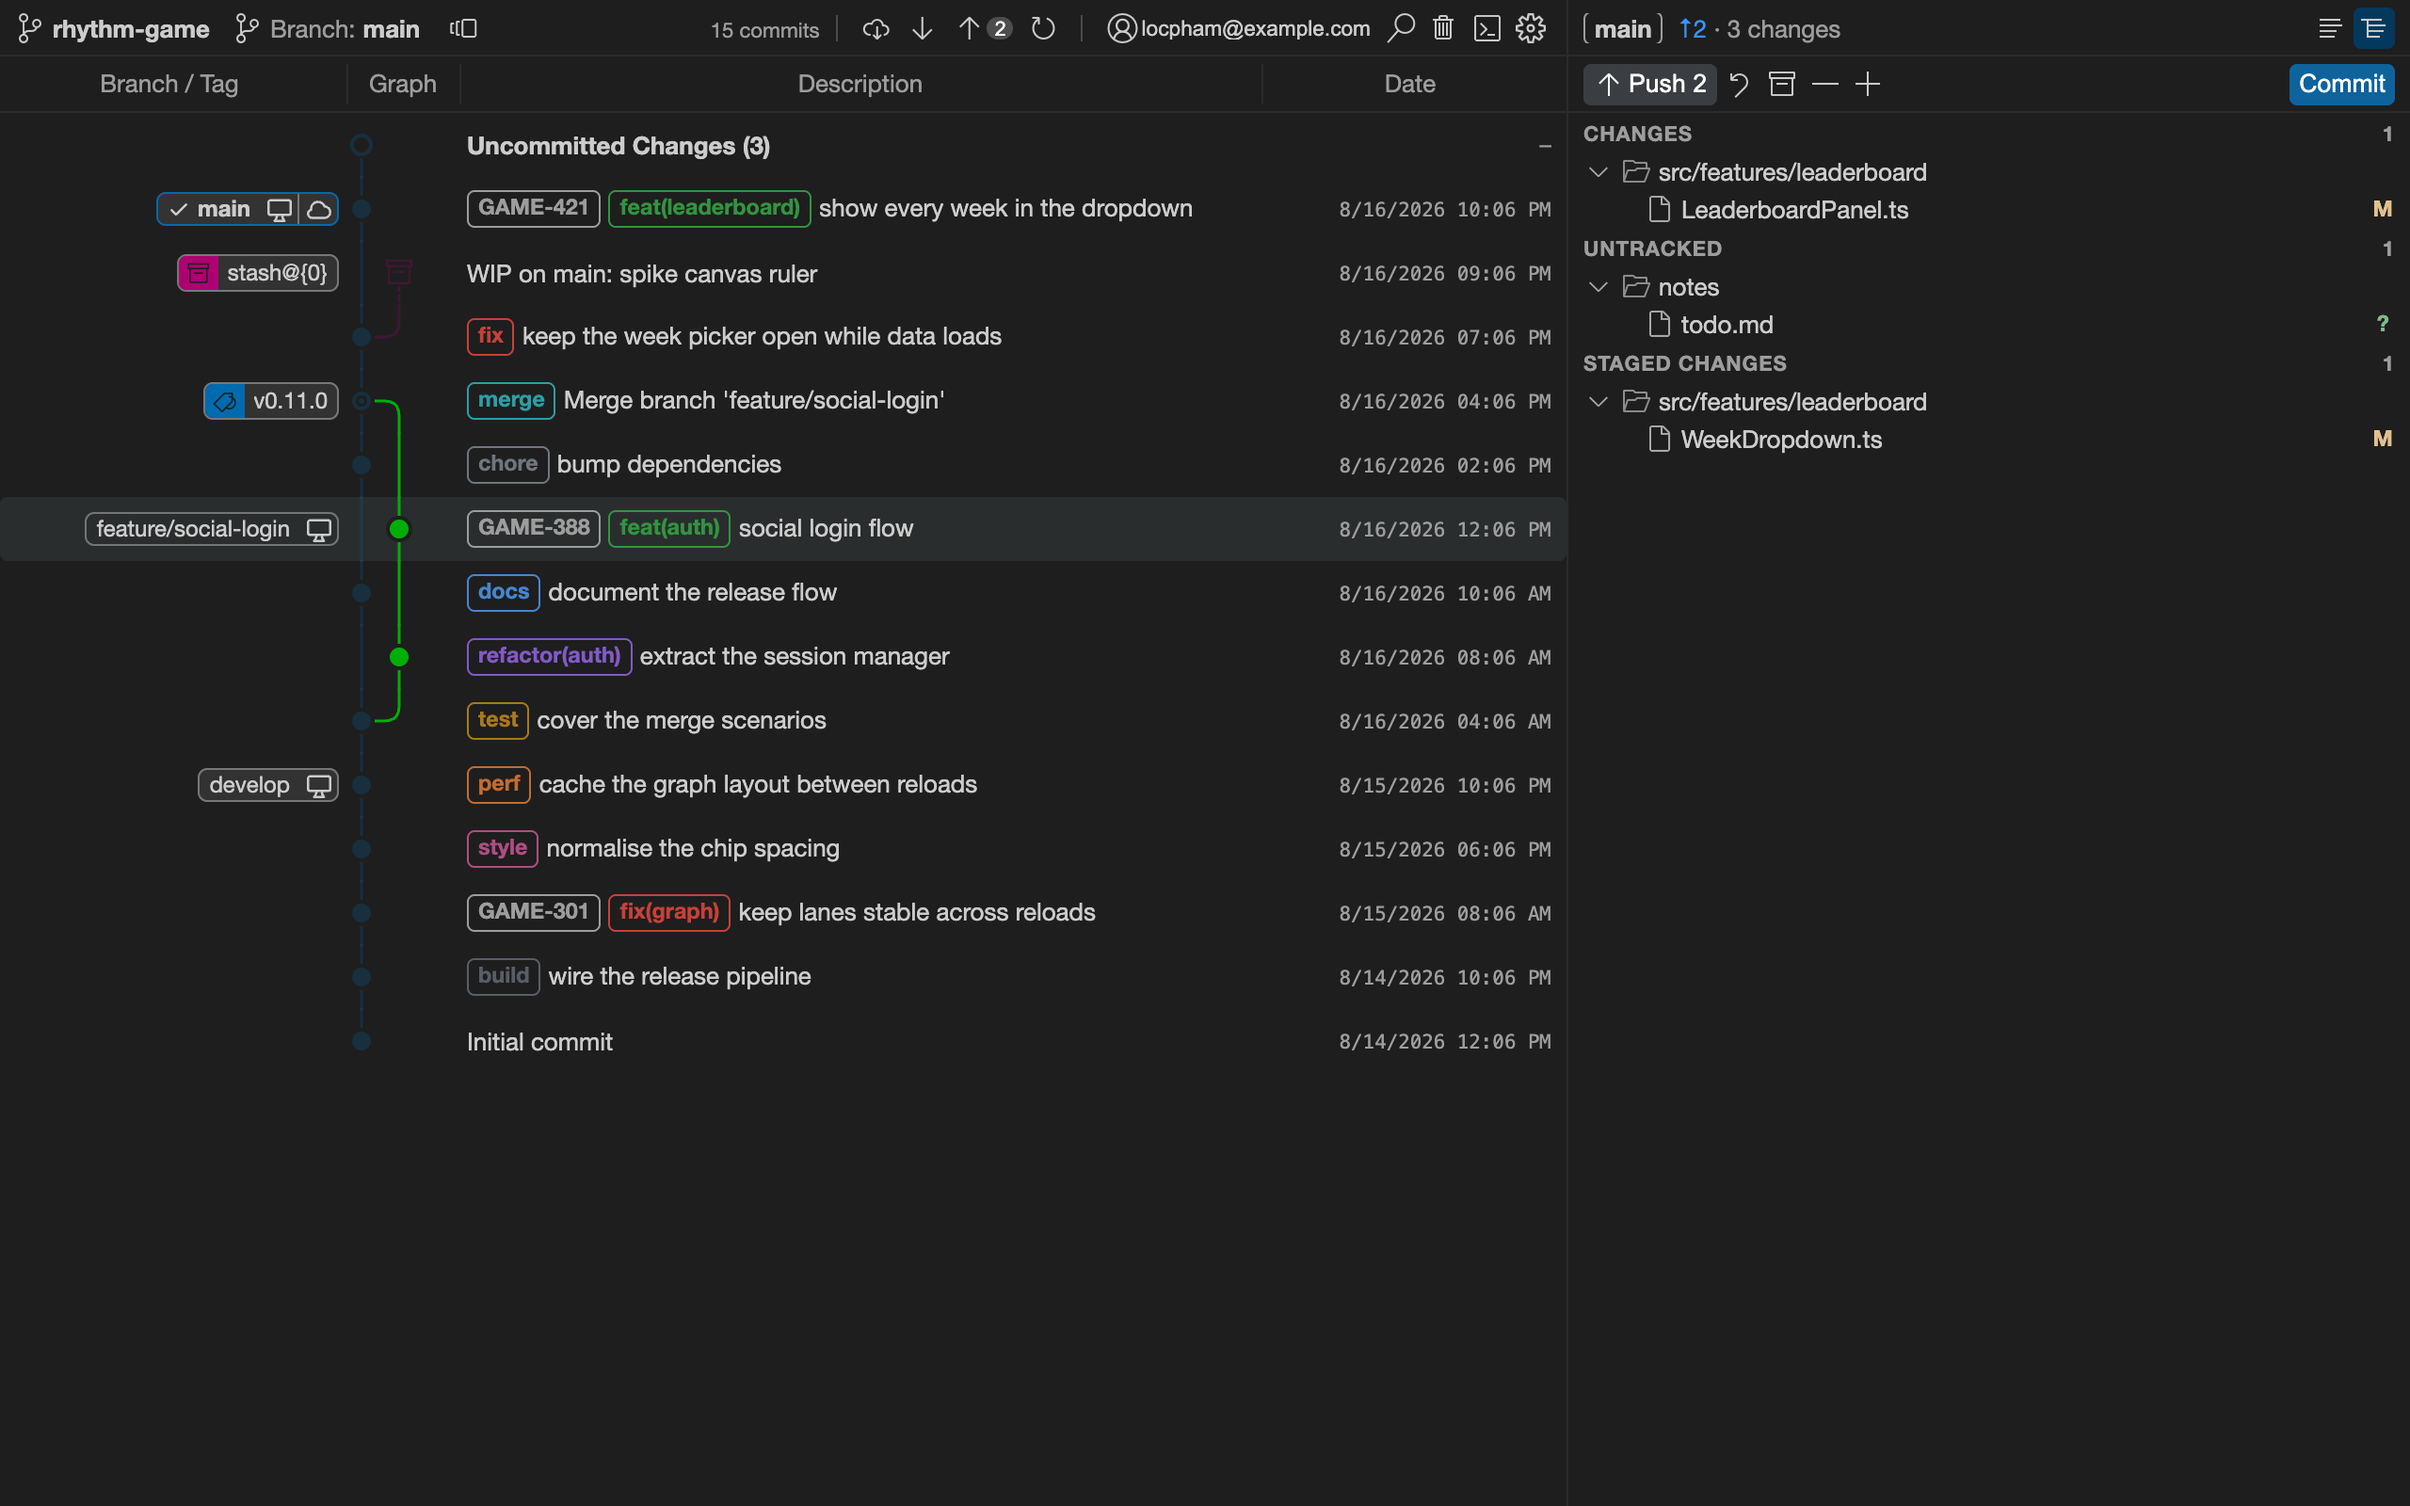
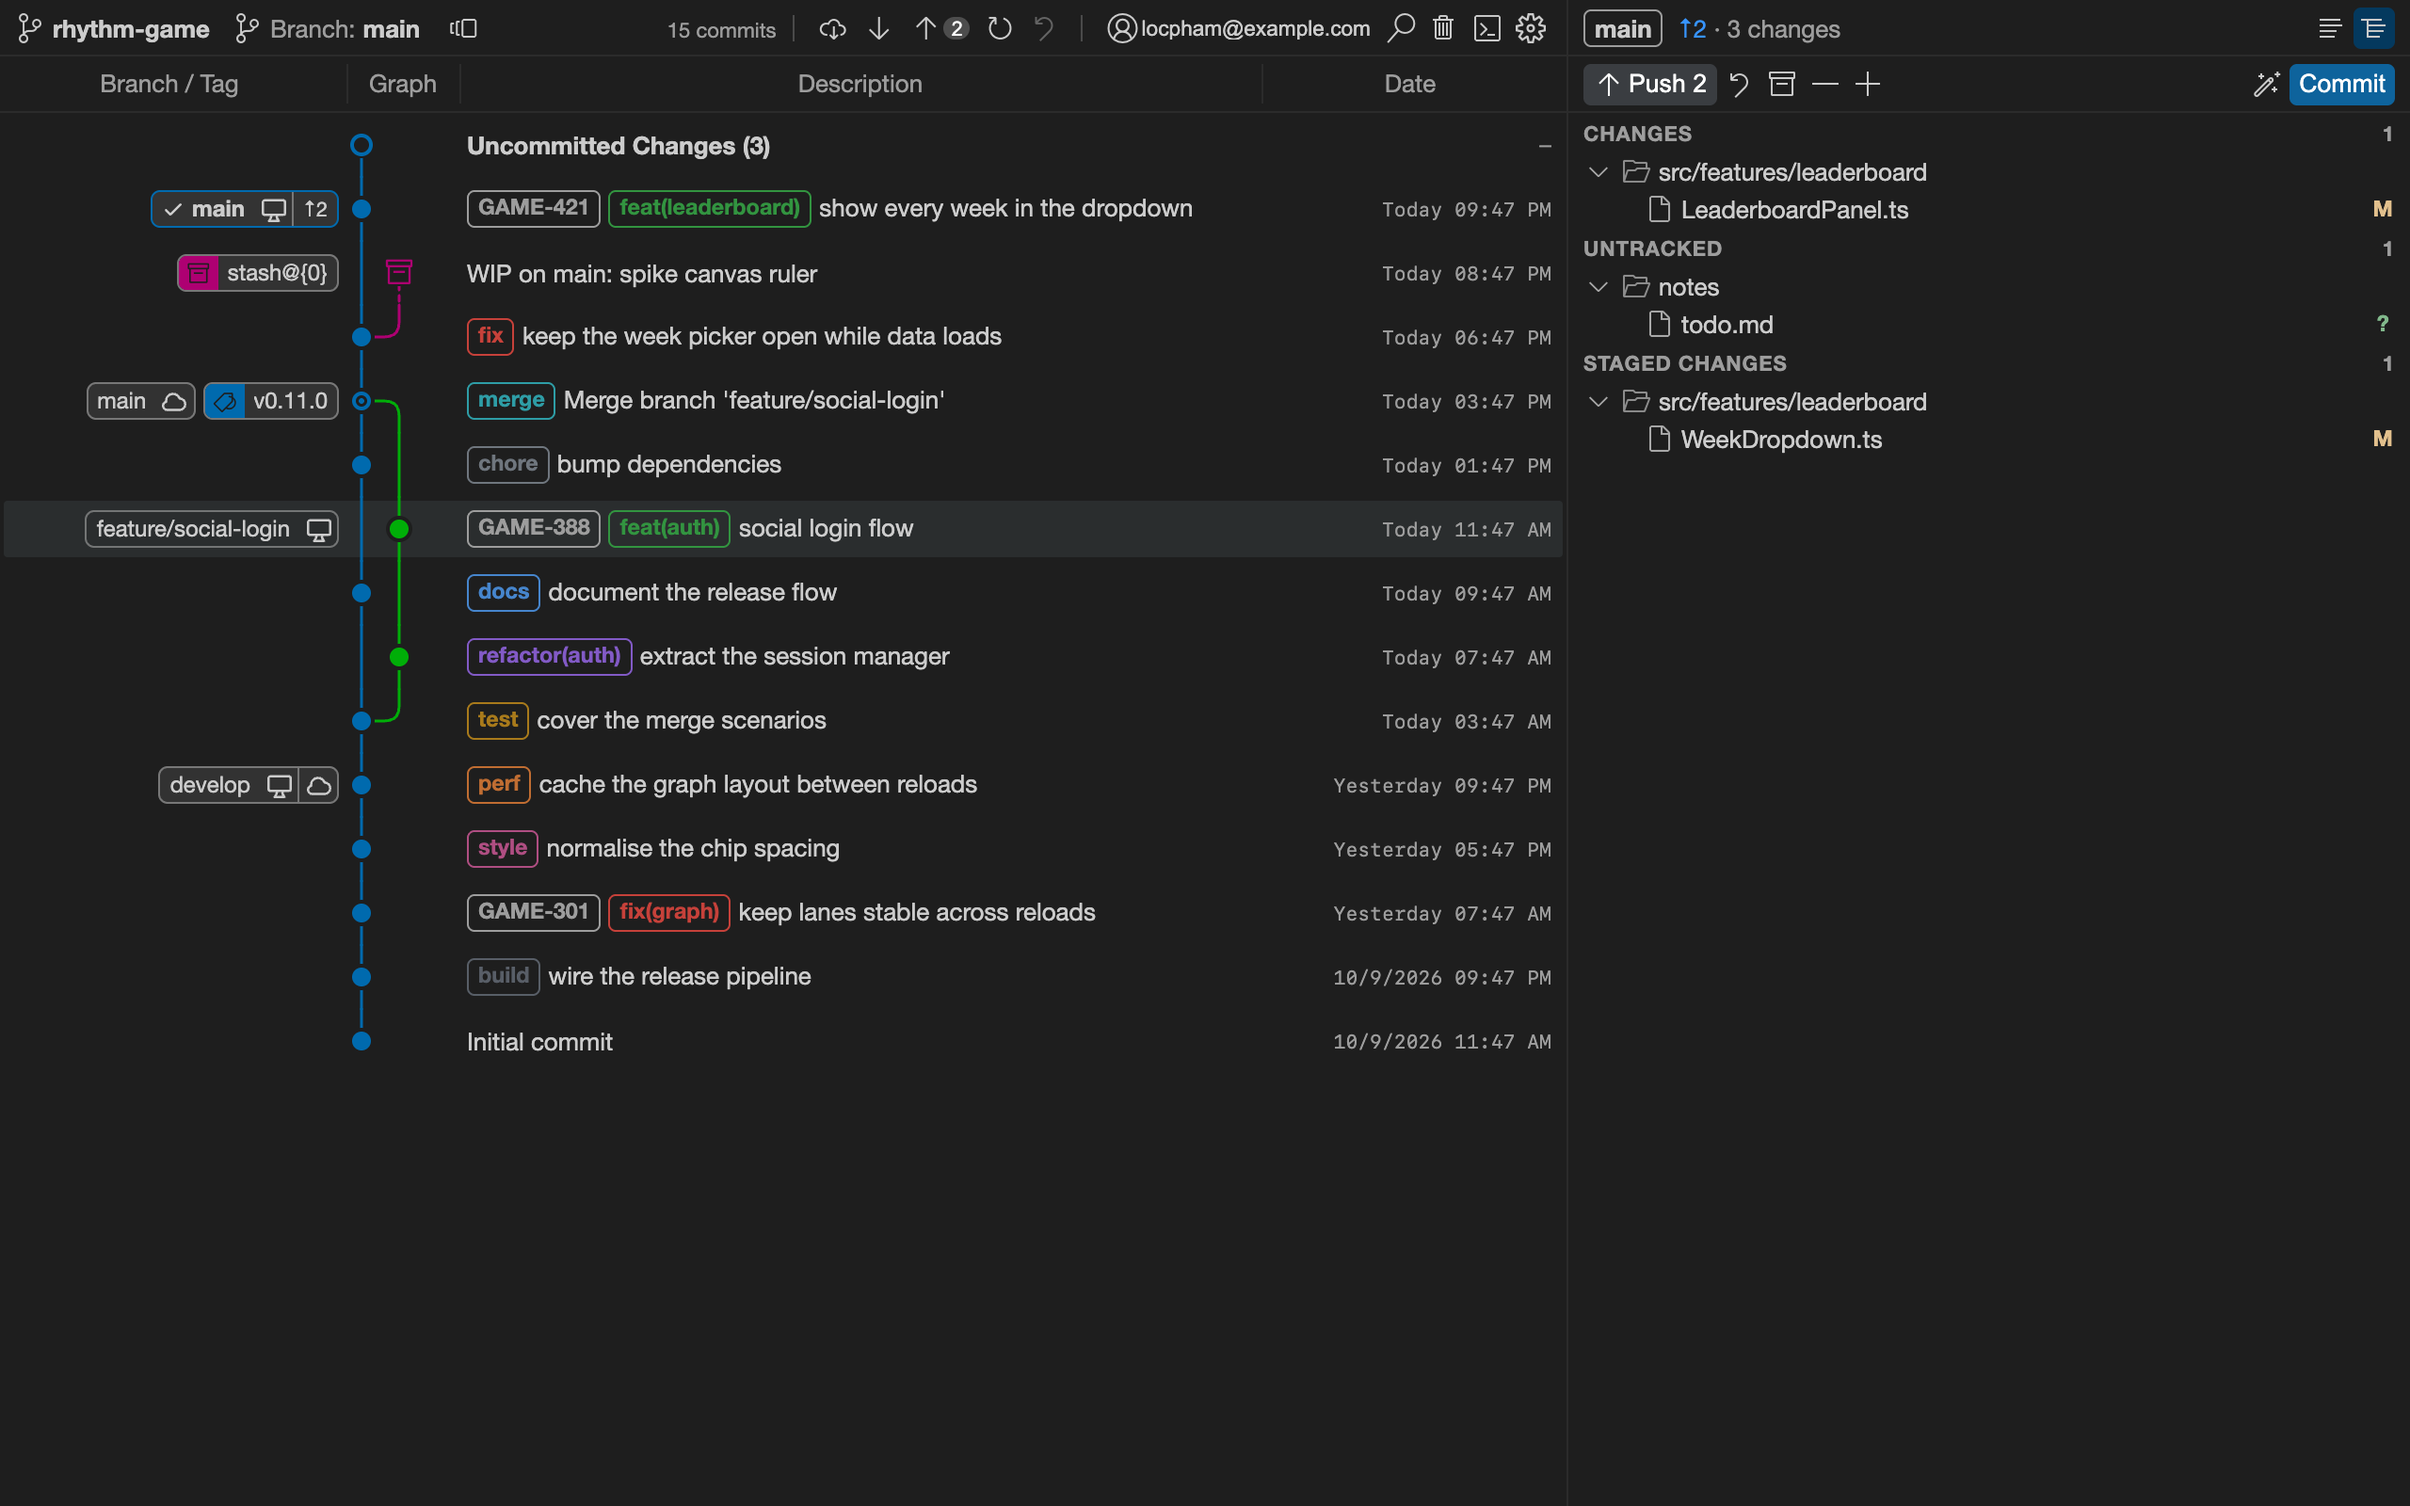
docs: retake the screenshots on the current UI and catch the feature list up
All eight screenshots are retaken on the current build, plus two new ones: a
merge commit listing what it brought in, and the AI commit plan editor.

The feature list gains upstream drift and auto-fetch, Show Only, merge commit
files, sideways-scrolling diffs, rename / annotated tags / force delete, undo,
the checkout reconcile prompts, the pull strategy, the editor tab, and how the
extension shares the index lock with other tools. Privacy now names auto-fetch
and AI commit as the two things that reach past the machine.

diff --git a/packages/extension/README.md b/packages/extension/README.md
@@ -15,40 +15,69 @@ View a Git graph of your repository and perform Git actions from it, inside Visu
   types (`feat`, `fix`, `chore`, …) render as chips, and hovering a row or branch chip highlights
   that branch's whole line. Rest on an avatar to see who wrote the commit. A long-lived branch
   keeps its own lane through fork points instead of drifting left.
+- **Upstream drift on every branch**: a local branch's chip shows how far it is ahead of or behind
+  the branch it tracks, and **auto-fetch** (every minute by default; 5, 15, 30 or 60 minutes, or
+  off) keeps those counts true. It pauses while the window is in the background and gives up after
+  repeated failures rather than asking for a password again and again.
+- **Show only one branch**: pick **Show Only** on a branch chip to draw that branch alone; a pill
+  in the control bar clears the filter.
 - **Commit details**: message, author and committer, parents, and the changed files as a flat list or
-  a folder tree — with the file icons from whichever icon theme you already use.
+  a folder tree — with the file icons from whichever icon theme you already use. A merge commit
+  lists what it brought in: its files against the branch it was merged into.
 - **Working tree**: stage, unstage and discard per file, stage or unstage everything, stash, commit,
   and undo the last commit.
 - **Diffs in the view**: any file's changes open in an inline panel with syntax highlighting and an
   overview ruler of every change — or Ctrl/Cmd + click a second commit to compare two commits.
-  ↑/↓ step through the commit's files while a diff is open; Alt + ↑/↓ still move between commits.
-- **Git actions**: checkout, branch, merge, rebase, cherry-pick, revert, reset, tag, and the stash
-  actions, from the commit's context menu; drag one branch chip onto another to merge, rebase or
-  fast-forward; fetch, pull, push and force-push ask before running. Merge options, squash and
-  reword messages and the confirmations are asked in the view's own dialogs, with a real
-  multi-line editor for commit messages.
+  Long lines scroll sideways while the line numbers stay put. ↑/↓ step through the commit's files
+  while a diff is open; Alt + ↑/↓ still move between commits.
+- **Git actions**: checkout, branch, rename, merge, rebase, cherry-pick, revert, reset, lightweight
+  and annotated tags, and the stash actions, from the commit's context menu; drag one branch chip
+  onto another to merge, rebase or fast-forward; push a branch without checking it out; fetch,
+  pull, push and force-push ask before running. Deleting an unmerged branch offers a force delete
+  instead of failing. Merge options, squash and reword messages and the confirmations are asked in
+  the view's own dialogs, with a real multi-line editor for commit messages.
+- **Undo**: the last graph action that moved a branch or HEAD — a merge, rebase, reset,
+  cherry-pick, squash or branch change — is undone with the Undo button in the control bar.
+  Everything is checked again before the undo runs, and a dirty working tree is refused rather
+  than overwritten.
 - **Refs where you clicked them**: right-click a branch, remote branch or tag chip and the menu
   belongs to that ref, named in the label — no second question about which ref you meant. Hover the
   ref column and it unfolds, every ref on the row at full length, still draggable and still
   right-clickable.
-- **Checkout that keeps up**: checking a branch out from its remote finds the local branch even
-  when it has fallen behind, and brings it up to date in the same step — never over uncommitted
-  work, and switchable off. A detached HEAD is marked in the graph, with one click back to the
-  branch you left.
+- **Checkout that keeps up**: every way of checking a branch out — double-click, the menu, or its
+  remote chip — finds the local branch even when it has fallen behind, and brings it up to date in
+  the same step, never over uncommitted work and switchable off. Checked out from its remote chip,
+  a branch that has diverged is checked out first and then you choose: merge, rebase, or reset
+  onto the remote; one that is only ahead offers to push it up or reset it back, and says whether
+  the commits a reset drops still live on another branch. A detached HEAD is marked in the graph,
+  with one click back to the branch you left.
+- **Pull strategy**: the Pull button follows your git config by default, or uses fast-forward if
+  possible, fast-forward only, or rebase — so a repository set to write a merge commit on every
+  pull can still be pulled clean. The pull menu offers each one for a single pull.
 - **Remotes that ask for credentials** work without a terminal: git's prompt is answered through
   VS Code, and nothing secret reaches a log or notification.
-- **AI commit**, opt-in: the wand beside Commit hands your changes to an agent CLI you already have
-  installed and logged in — Claude Code, Codex, Gemini, Copilot, OpenCode or Qwen Code — and it
-  writes the message, or a split into several commits you can edit, regroup and approve before
-  anything is written. No API key is stored; generated assets, binaries and any glob you exclude
-  are sent by name only.
+- **AI commit**, opt-in: the wand beside Commit hands your staged changes to an agent CLI you
+  already have installed and logged in — Claude Code, Codex, Gemini, Copilot, OpenCode or Qwen Code —
+  and it writes the message, or a split into several commits you can edit, regroup and approve
+  before anything is written. Each step of the run is shown while it works. No API key is stored;
+  generated assets, binaries and any glob you exclude are sent by name only, and the agent runs in
+  a folder of its own, never inside your repository.
 - **Branch cleanup**: scan local branches by age, see which are merged or have lost their remote,
   and delete a batch in one pass — every result comes back with the hash to undo it.
 - **Git identities per repository**: keep an identity per client, each with one or more remote
   patterns, and apply it to a repository without touching your global config — optionally applied
   on its own when a repository's remote matches exactly one of them.
-- **Find** with Ctrl+F, several repositories in one workspace, and a view you can open as an editor
-  tab.
+- **In the Panel or an editor tab**: the graph opens in the bottom Panel or as an editor tab you
+  can split, drag to another group or move into its own window. The octopus button on the editor
+  title bar opens it, **Move to Editor Tab** / **Move to Panel** swap between the two, and the
+  **Default location** setting decides where **Open Git Octopus** goes. An open tab is brought
+  forward rather than opening a second graph.
+- **Gets along with other Git tools**: every git command runs in turn, a write that meets a lock
+  another tool holds for a moment waits it out, and reading the working tree never takes the
+  index lock — so a commit made in a terminal or another client is not refused because the graph
+  was refreshing. A lock file left behind by an interrupted command is reported as exactly that,
+  with an offer to remove it.
+- **Find** with Ctrl+F, and several repositories in one workspace.
 
 ## Managing multiple Git identities
 
@@ -84,17 +113,25 @@ sent anywhere by the extension.
 
 ![Inline diff panel](docs/screenshots/04-diff-syntax-highlight.png)
 
+**AI commit splits the staged changes into commits you review before anything is written**
+
+![AI commit plan editor](docs/screenshots/10-ai-commit-plan.png)
+
+**A merge commit lists what it brought in**
+
+![Files of a merge commit](docs/screenshots/09-merge-commit-files.png)
+
 **Drag a branch onto another to merge, rebase or fast-forward**
 
 ![Branch drag and drop](docs/screenshots/05-branch-drag-merge.png)
 
-**Hover highlights the branch under the pointer**
-
-![Branch hover highlight](docs/screenshots/02-branch-hover-highlight.png)
-
 **Clean up stale local branches in one pass**
 
 ![Branch cleanup dialog](docs/screenshots/06-branch-cleanup.png)
+
+**Settings, with the pull strategy and auto-fetch interval**
+
+![Settings dialog](docs/screenshots/07-settings.png)
 
 ## Requirements
 
@@ -106,6 +143,11 @@ No telemetry, no tracking — the extension talks to your local `git` and nothin
 exception: the **Fetch avatars** setting (off by default) loads author images from gravatar.com,
 which sends a hash of each author's email address to that service. Nothing is fetched until you
 turn it on in the view's settings.
+
+Two things reach beyond your machine through tools you already use, never through the extension
+itself: **auto-fetch** runs `git fetch` against your repository's own remotes (set it to Off in the
+settings to stop it), and **AI commit**, only when you press the wand, hands your staged changes to
+the agent CLI you picked.
 
 ## Licence
 

diff --git a/README.md b/README.md
@@ -31,13 +31,19 @@ Requires VS Code 1.90 or newer, Node 20+, pnpm, and `git` 2.24 or newer on your 
 ## What it does
 
 Commit graph with branch lanes and colours, in four lane styles · branch, tag and stash chips, and
-a `HEAD` chip when it is detached · commit details with the file list as a flat list or a folder
-tree · file icons from whichever icon theme you use · working tree: stage, unstage, discard, stash,
-commit, undo commit · diff any file, or compare two commits with Ctrl/Cmd + click · fetch, pull,
-push and force-push with confirmation, against remotes that ask for credentials · 20+ Git actions
-from the commit menu, asked in the view's own dialogs · right-click a chip to act on that ref, or
-hover the ref column to read every name in full · a Git identity per repository, matched to the
-remote · find (Ctrl+F) · several repositories in one workspace.
+a `HEAD` chip when it is detached · ahead/behind drift on every branch chip, kept fresh by
+auto-fetch · show one branch only · commit details with the file list as a flat list or a folder
+tree, and a merge's files against the branch it was merged into · file icons from whichever icon
+theme you use · working tree: stage, unstage, discard, stash, commit, undo commit · diff any file,
+with long lines scrolling sideways, or compare two commits with Ctrl/Cmd + click · fetch, pull,
+push and force-push with confirmation, a pull strategy setting, and remotes that ask for
+credentials · 20+ Git actions from the commit menu, asked in the view's own dialogs, and undo for
+the last one that moved a branch · checkout that brings a stale branch up to date and offers a way
+out of a diverged one · right-click a chip to act on that ref, or hover the ref column to read every
+name in full · AI commit through an agent CLI you already use, as one commit or a reviewed split ·
+a Git identity per repository, matched to the remote · the Panel or an editor tab · waits out
+another tool's `index.lock` instead of failing · find (Ctrl+F) · several repositories in one
+workspace.
 
 Several Git accounts? Save an identity per client in the Identity tab, apply one to a repository
 without touching your global config, match identities to remotes by pattern, and get asked before a
@@ -51,6 +57,10 @@ Taken against a demo repository; the full set lives in [docs/screenshots](docs/s
 ![The commit graph, with the working tree beside it](docs/screenshots/01-graph-overview.png)
 
 ![Inline diff with syntax highlighting and the change ruler](docs/screenshots/04-diff-syntax-highlight.png)
+
+![AI commit splits the staged changes into commits you review first](docs/screenshots/10-ai-commit-plan.png)
+
+![A merge commit lists what it brought in](docs/screenshots/09-merge-commit-files.png)
 
 ![Drag a branch onto another to merge, rebase or fast-forward](docs/screenshots/05-branch-drag-merge.png)
 
